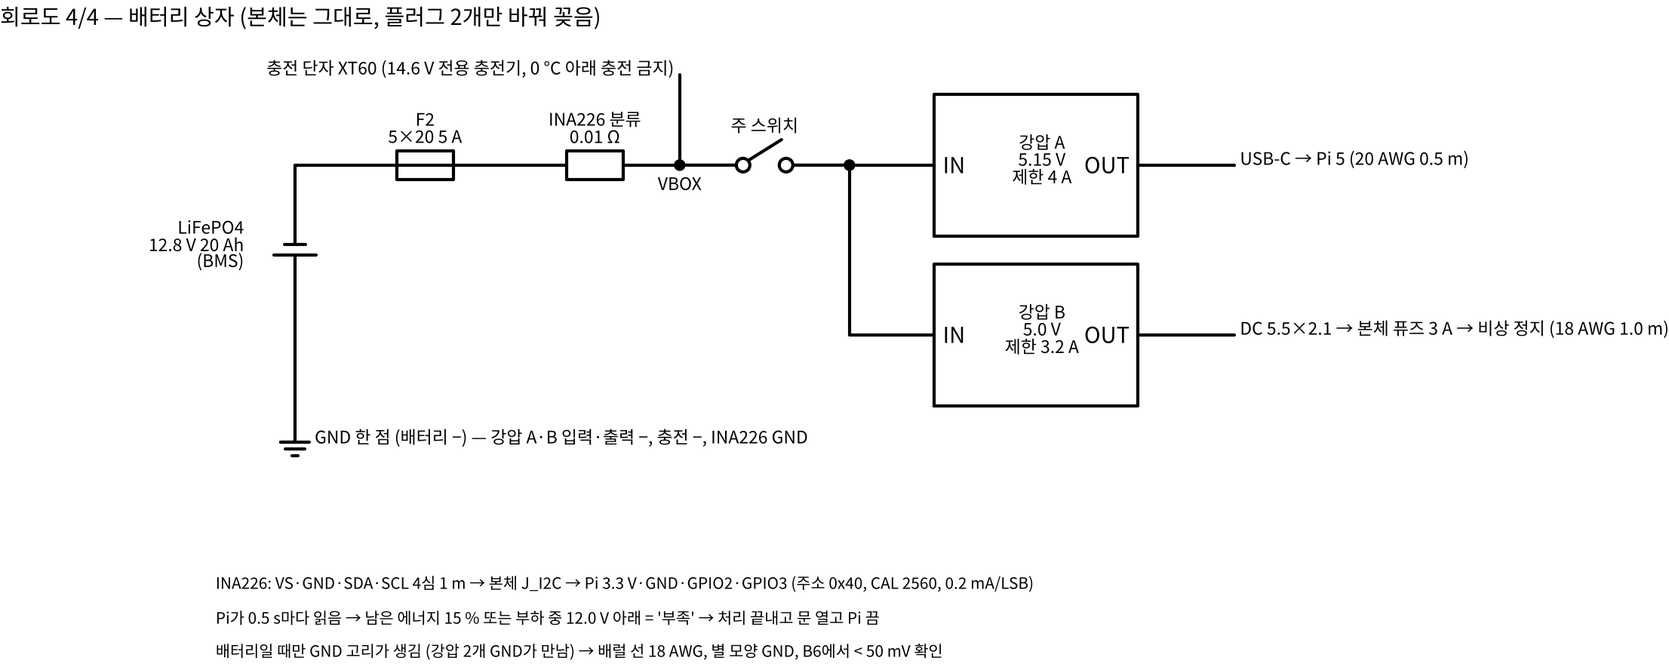
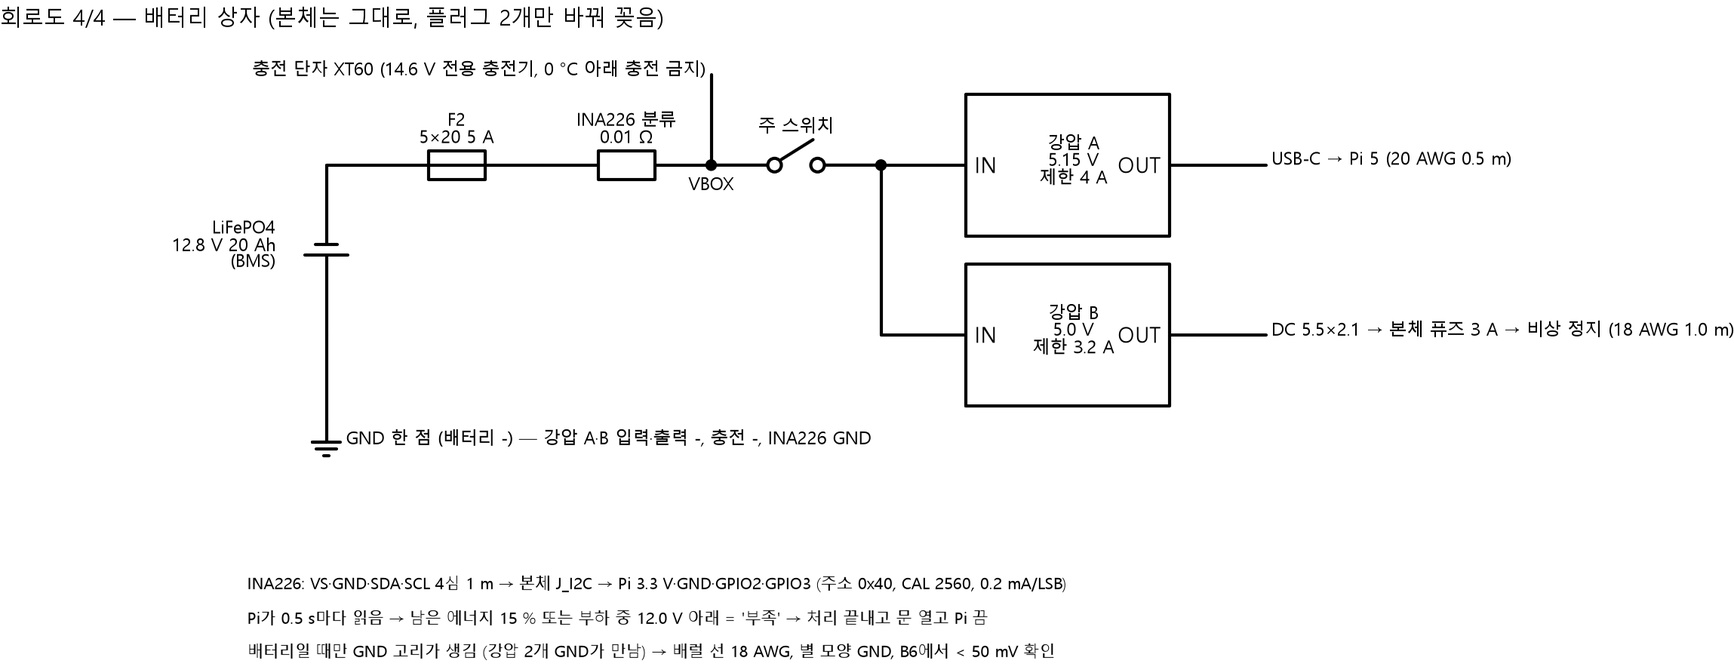
[서현] 인터페이스 정의서 v0.2(통신·비전 결과 형식), 비전 결과를 승준 mark_planner에 맞춤, 기다리는 중 해 지면 밤으로(버그), 회로도 4장 다시 그림(D_RP·500 mm), CLAUDE.md 코딩 원칙, AI 로그 CAP-AI-52

diff --git a/전기회로/전기회로_설계_쉬운설명.html b/전기회로/전기회로_설계_쉬운설명.html
@@ -337,7 +337,7 @@ dl dt{font-weight:700;margin-top:.6em} dl dd{margin:0 0 .3em 0}
 <figure><img src="../design/img/circuit/회로도_3_UNO2_문게이트조명.png" alt="회로도 3 UNO2" onerror="this.parentNode.style.display='none'"><figcaption>회로도 3 — 손 2 (문 · 문지기 · 조명)</figcaption></figure>
 <figure><img src="../design/img/circuit/회로도_4_배터리상자.png" alt="회로도 4 배터리 상자" onerror="this.parentNode.style.display='none'"><figcaption>회로도 4 — 배터리 상자 (콘센트가 없는 곳에서)</figcaption></figure>
 
-<p class="mini">※ 회로도 1·4장 그림에는 아직 역극성 다이오드(D_RP)가 안 그려져 있고, 카메라 선이 "300 mm"로 적혀 있어요. 원본(circuit.py)은 고쳤고, 그림은 다음에 다시 그려요 (이 PC에 그림 도구가 없음).</p>
+<p class="mini">※ 11/08에 회로도를 다시 그렸어요. 1장 오른쪽에 역극성 다이오드(D_RP)가 있고, 카메라 선은 500 mm예요.</p>
 
 <!-- ============================================================ -->
 <h2 id="hub">9-1. 허브 기판 — 납땜 지도</h2>

diff --git a/관련코딩저장/pi_link/test_process.py b/관련코딩저장/pi_link/test_process.py
@@ -23,6 +23,7 @@ class FakeVision:
         self.marks_ok = marks_ok
         self.pose_seq = list(pose_seq or ['dorsal'])
         self.calls = []
+        FakeVision.last = self
 
     def look(self, what):
         self.calls.append(what)
@@ -174,11 +175,8 @@ def t_season():
 
 
 def t_dusk():
-    state = {'n': 0}
-
-    def is_day():
-        state['n'] += 1
-        return state['n'] <= 1          # step 시작 때만 낮, 방생 직전엔 해 짐
+    def is_day():                       # 판별(identify) 사진 뒤에 해 짐 → 방생 직전엔 밤
+        return 'identify' not in FakeVision.last.calls
     r, proc, vis, res, cm, cd = run_scene('dusk 재방문인데 방생 직전 해 짐 → 격리',
                                           dict(species='velutina', mw_mm=4.0, marked=True, x=0, y=0), is_day=is_day)
     try:
@@ -200,9 +198,61 @@ def t_pose_retry():
         r.close()
 
 
+def t_format():
+    print('[format] vision_format: VespAI 클래스·신뢰도 → species, 점 → marked, 화소 → mm (CAP-AI-52)')
+    from vision_format import make_obs, px_to_mm
+    check(make_obs(1, 0.95)['species'] == 'velutina' and make_obs(0, 0.9)['species'] == 'crabro', '클래스 1 velutina, 0 crabro')
+    check(make_obs(1, 0.7)['species'] == 'other', '신뢰도 0.7 < 0.8 → other (격리)')
+    check(make_obs(1, 0.9, dots=[dict(x=1, y=1)])['marked'] and not make_obs(1, 0.9)['marked'], '점 있으면 marked')
+    o = make_obs(1, 0.9, mw_mm=4.0, thorax=(1.0, -0.5, 0.5, 5.5, 4.1))
+    check(o['x'] == 1.0 and o['y'] == -0.5 and len(o['unc']) == 3, 'thorax → x, y, unc')
+    check(decide([o], 7)[0] == 'mark', 'make_obs 결과가 decide로 바로 들어감')
+    cam = dict(u0=1000, v0=800, px_per_mm=15.6)
+    x, y = px_to_mm(1000 + 15.6 * 3, 800 - 15.6 * 2, cam)
+    check(abs(x - 3) < 1e-9 and abs(y - 2) < 1e-9, '화소 (+3 mm 오른쪽, 2 mm 위) → (3, 2)')
+
+
+def t_planner():
+    import math
+    th = (1.0, -0.5, math.radians(30), 5.5, 4.1)
+    r, proc, vis, res, cm, cd = run_scene('planner 흉부 타원을 주면 승준 mark_planner가 고른 점에 찍음 (C4)',
+                                          dict(species='velutina', mw_mm=4.0, marked=False, x=th[0], y=th[1],
+                                               thorax=th, unc=(0.4, math.radians(8), 0.1)))
+    try:
+        import mark_planner
+        want = mark_planner.plan(th, (0.4, math.radians(8), 0.1), start=(10.0, -40.0))['route']
+        check(res == ('release', 'worker'), '결과 release (worker)')
+        check(len(want) == 1, '고른 점 1개 (k=1)')
+        mx = 'MOVE X %.3f' % want[0][0]
+        check(mx in cm and 'MOVE Y %.3f' % want[0][1] in cm, '그 점으로 감 %s' % (want[0],))
+        check(cm[cm.index('MOVE Y %.3f' % want[0][1]) + 1:][:2] == ['PEN DOWN', 'PEN UP'], '거기서 찍음')
+    finally:
+        r.close()
+
+
+def t_night_wait():
+    print('[nightwait] 말벌 기다리는 중 해 짐 → step 끝 → 다음 step이 밤 (REL 닫고 IN·CAP 엶) (C5)')
+    r = Rig()
+    try:
+        r.ctl.boot()
+        day = {'v': True}
+        proc = Processor(r.ctl, FakeVision(None), fast_prm(), month=lambda: 7, is_day=lambda: day['v'])
+        threading.Timer(1.5, lambda: day.__setitem__('v', False)).start()
+        t0 = time.time()
+        res = proc.step()                       # 시간 제한 없음 — 고치기 전에는 여기서 안 끝남
+        check(res == 'no_entry' and time.time() - t0 < 10, '기다림이 해 지자 끝남 (%s, %.1f s)' % (res, time.time() - t0))
+        n0 = len(r.d.history)
+        check(proc.step() == 'night', '다음 step → night')
+        cd = [s for _, d, s in list(r.d.history)[n0:] if d == '>>' and s != 'PING']
+        check('DOOR CAP OPEN' in cd and 'DOOR IN OPEN' in cd and 'DOOR REL OPEN' not in cd, '밤: CAP·IN 열림, REL 안 엶')
+    finally:
+        r.close()
+
+
 if __name__ == '__main__':
     t0 = time.time()
-    tests = dict(decide=t_decide, mark=t_mark, queen=t_queen, revisit=t_revisit, season=t_season, dusk=t_dusk, pose=t_pose_retry)
+    tests = dict(decide=t_decide, format=t_format, mark=t_mark, queen=t_queen, revisit=t_revisit, season=t_season,
+                 dusk=t_dusk, pose=t_pose_retry, planner=t_planner, nightwait=t_night_wait)
     for n in (sys.argv[1:] or list(tests)):
         tests[n]()
     print('\n== test_process: PASS %d, FAIL %d (%.0f s)' % (PASS[0], FAIL[0], time.time() - t0))

diff --git a/관련코딩저장/pi_link/process.py b/관련코딩저장/pi_link/process.py
@@ -21,11 +21,29 @@ trap_sim.py (PiFSM wait_entry·process·press_mark·feed·release·isolate·leav
       (trap_sim은 카메라 흉내 안에서 했음 → 비전은 숫자만 주고 판단은 한 곳에서)
   C2. 흉부 좌표는 '자세 확인' 사진(PRESS 뒤)의 x·y를 쓴다 (trap_sim은 고정 55, 0) — 눌린 뒤 자리가 정확함
   C3. 비전 좌표 = 펌웨어 좌표 (원점 격자 가운데, 인터페이스 정의서 좌표계). 범위 밖이면 마킹 안 하고 급이·방생
+  C4. (CAP-AI-52) 비전이 흉부 타원 thorax(x, y, θ, L, w)·unc를 주면 승준 mark_planner.plan()으로 찍을 점을 고른다
+      (격자 구멍 안 + 흉부 안전영역 확률 ≥ 0.5). 고를 점이 없으면 자세 다시 잡기. thorax가 없으면 C2대로 x, y 한 점.
+      결과 형식은 vision_format.py
+  C5. (CAP-AI-52) 낮밤은 서현 결정: 밤에는 처리하지 않고 전부 포획통 (daynight.py와 같은 순서). 기다리는 중에 해가 지면
+      wait_entry가 0으로 돌아와 다음 step이 night_mode로 간다
 """
+import os
+import sys
 import time
 from dataclasses import dataclass
 
 from controller import TrapFault
+
+sys.path.insert(0, os.path.join(os.path.dirname(os.path.abspath(__file__)), '..', '..', 'vision', 'scripts'))
+
+
+def plan_stamps(h, start):
+    """C4: 승준 mark_planner로 찍을 점들. thorax 없으면 [(x, y)], 확률 낮으면 []."""
+    if 'thorax' not in h:
+        return [(h['x'], h['y'])]
+    import mark_planner                                  # numpy 필요 — thorax를 줄 때만 부름
+    r = mark_planner.plan(h['thorax'], h['unc'], start=start)
+    return [tuple(p) for p in r['route']]
 
 GAP = {'IN': ('G2', 'G2b'), 'CAP': ('G3', 'G3b'), 'REL': ('G5', 'G5b')}
 PAIR = {g: (d, i) for d, pr in GAP.items() for i, g in enumerate(pr)}
@@ -202,6 +220,8 @@ class Processor:
                     break
             if timeout_s is not None and time.monotonic() - t0 > timeout_s:
                 return 0
+            if not self.is_day():              # C5: 기다리다 해 짐 → 다음 step이 밤으로
+                return 0
         obs = []
         for _ in range(p.entry_looks):        # 구석에 있으면 못 볼 수 있음
             obs = self.look('entry')
@@ -265,12 +285,19 @@ class Processor:
                 c.move('F', max(0.0, F_now - p.F_retract))
                 c.idle(2.0)
                 continue
+            route = plan_stamps(h, (c.cfg.park['X'], c.cfg.park['Y']))
+            if not route:                                  # C4: 안전하게 찍을 점 없음 → 자세 다시
+                self.note('pose_retry', attempt=attempt, pose='no_safe_point')
+                c.move('F', max(0.0, F_now - p.F_retract))
+                c.idle(2.0)
+                continue
             for k in range(p.mark_retry_max + 1):
-                c.move_xy(h['x'], h['y'])                  # C2
-                for _ in range(p.stamps):
-                    c.pen(False)
-                    c.idle(p.dwell_s)
-                    c.pen(True)
+                for x, y in route:
+                    c.move_xy(x, y)                        # C2 / C4
+                    for _ in range(p.stamps):
+                        c.pen(False)
+                        c.idle(p.dwell_s)
+                        c.pen(True)
                 c.move_xy(c.cfg.park['X'], c.cfg.park['Y'])
                 v = self.look('verify')
                 if v and v[0].get('marked'):

diff --git a/design/circuit/circuit.py b/design/circuit/circuit.py
@@ -1,4 +1,4 @@
-# -*- coding: utf-8 -*-
+# -*- coding: utf-8 -*-
 """회로 설계 (서현, 2026-11-06, CAP-AI-23) — D5e + 11/02 결정 (빛 게이트 9쌍, 콘센트 + 배터리 상자)
 
 한 곳(NETS)에 모든 연결을 적고, 여기서
@@ -200,10 +200,11 @@ def sheets():
     import matplotlib
     matplotlib.use("Agg")
     import matplotlib.pyplot as plt
-    plt.rcParams.update({"font.family": "Noto Sans CJK JP"})
+    FONT = "Noto Sans CJK JP" if any(f.name == "Noto Sans CJK JP" for f in matplotlib.font_manager.fontManager.ttflist) else "Malgun Gothic"  # Windows는 맑은 고딕
+    plt.rcParams.update({"font.family": FONT})
     import schemdraw
     import schemdraw.elements as elm
-    schemdraw.config(font="Noto Sans CJK JP", fontsize=11)
+    schemdraw.config(font=FONT, fontsize=11)
 
     def P(name, side, anchor=None):
         return elm.IcPin(name=name, side=side, anchorname=anchor or re.sub(r"[^0-9A-Za-z]", "_", name.split()[0]))
@@ -211,7 +212,7 @@ def sheets():
     # --- 1장: 전원 ---
     with schemdraw.Drawing(file=os.path.join(IMG, "회로도_1_전원.png"), show=False, dpi=150) as d:
         d += elm.Label().label("회로도 1/3 — 전원 (콘센트 기본, 같은 플러그로 배터리 상자)", fontsize=14).at((0, 4.2))
-        jb = elm.Ic(pins=[P("−", "right", "pin2"), P("+", "right", "pin1")], edgepadW=1.2, label="DC 잭\n5 V 3 A\n(또는 배터리\n상자 5 V 3 A)").at((0, 0))
+        jb = elm.Ic(pins=[P("-", "right", "pin2"), P("+", "right", "pin1")], edgepadW=1.2, label="DC 잭\n5 V 3 A\n(또는 배터리\n상자 5 V 3 A)").at((0, 0))
         d += jb
         d += elm.Line().right(0.8).at(jb.pin1)
         d += (f := elm.Fuse().right().label("F1\n5×20 3 A", loc="top"))
@@ -226,7 +227,12 @@ def sheets():
         d += elm.Wire("-|").at(jb.pin2).to((g1.center[0] - 2.8, g1.center[1]))
         d += elm.Line().tox(g1.center)
         d += elm.Ground().at(g1.center)
-        d += elm.Resistor().right(2.5).at(tb.center).label("R_RS 10 kΩ", loc="bottom")
+        d += elm.Line().right(3.0).at(tb.center)
+        d += (n3 := elm.Dot())
+        d += elm.Diode().up(2).at((n3.center[0], n3.center[1] - 2))
+        d += elm.Label().label("D_RP SB540\n(거꾸로 걸침, 평소 0 A)", fontsize=10, halign="left").at((n3.center[0] + 0.4, n3.center[1] - 1.0))
+        d += elm.Line().at((n3.center[0], n3.center[1] - 2)).tox(tb.center)
+        d += elm.Resistor().right(2.5).at(n3.center).label("R_RS 10 kΩ", loc="top")
         d += elm.Label().label("→ UNO 2 D2 (레일 감지)", loc="right")
         d += elm.Label().label("GND 한 점 (와고 GND 묶음) ← UNO 1 GND, UNO 2 GND, 서보·게이트·ULN2003 GND", fontsize=10, halign="left").at((-1, -3.8))
         d += elm.Label().label("+5V_B → ULN2003 ×3, SG90, MG90S ×3, 게이트 수신·송신 ×9, 풀업 10 kΩ ×9, 조명 ×2", fontsize=10, halign="left").at((-1, -4.4))

diff --git a/관련코딩저장/pi_link/vision_format.py b/관련코딩저장/pi_link/vision_format.py
@@ -1,0 +1,37 @@
+# -*- coding: utf-8 -*-
+"""vision_format.py — 승준 비전 출력 → process.py가 읽는 한 마리 dict (서현 CAP-AI-52, 2026-11-08)
+
+process.py의 vision.look(what)은 마리마다 아래 dict 하나씩, 리스트로 돌려준다 (인터페이스 정의서 '비전 → 제어 결과' 줄):
+  species  'velutina' | 'crabro' | 'other'   VespAI 클래스 1 / 0, 신뢰도 < CONF_MIN 이면 'other' (→ 격리)
+  conf     0~1
+  mw_mm    중흉배판 폭 mm 또는 None (못 잼 → 계절 규칙)
+  marked   흉부 ROI 안에 노랑 점이 있나 (dot_detect.find_dots 결과가 1개 이상)
+  pose     'dorsal' | 'ventral' | 'side' | None,  p = 흉부 찾기 확률
+  x, y     흉부 가운데 mm (원점 격자 가운데, +x 방생 문 쪽, +y 먹이통 쪽)
+  thorax   (x, y, θ rad, L, w) mm — mark_planner.plan()의 est.   unc = (σ_xy, σ_θ, σ_size)
+           thorax가 있으면 process.py가 mark_planner로 찍을 점을 고르고, 없으면 x, y 한 점에 찍는다.
+"""
+import math
+
+CLASS = {1: 'velutina', 0: 'crabro'}     # VespAI monitor_run.py (run_vespai_examples.py CLASS_VELUTINA, CLASS_CRABRO)
+CONF_MIN = 0.8                           # J1 실행 기준값
+
+
+def species_of(cls_id, conf):
+    return CLASS.get(cls_id, 'other') if conf >= CONF_MIN else 'other'
+
+
+def px_to_mm(u, v, cam):
+    """사진 화소 (u 오른쪽, v 아래) → 좌표 mm. cam = dict(u0, v0 격자 가운데 화소, px_per_mm, rot_deg 사진이 돈 각도).
+    카메라 방향(rot_deg)은 장착 뒤 격자 사진으로 정한다 — 미검증."""
+    dx, dy = (u - cam['u0']) / cam['px_per_mm'], -(v - cam['v0']) / cam['px_per_mm']
+    a = math.radians(cam.get('rot_deg', 0.0))
+    return dx * math.cos(a) - dy * math.sin(a), dx * math.sin(a) + dy * math.cos(a)
+
+
+def make_obs(cls_id, conf, mw_mm=None, dots=(), pose=None, p=0.0, thorax=None, unc=(0.4, math.radians(8), 0.1)):
+    """한 마리 결과를 만든다. thorax는 이미 mm 좌표 (x, y, θ, L, w)."""
+    o = dict(species=species_of(cls_id, conf), conf=conf, mw_mm=mw_mm, marked=len(dots) > 0, pose=pose, p=p)
+    if thorax is not None:
+        o.update(x=thorax[0], y=thorax[1], thorax=tuple(thorax), unc=tuple(unc))
+    return o

diff --git a/design/circuit/battery_box.py b/design/circuit/battery_box.py
@@ -202,10 +202,11 @@ def sheet():
     import matplotlib
     matplotlib.use("Agg")
     import matplotlib.pyplot as plt
-    plt.rcParams.update({"font.family": "Noto Sans CJK JP"})
+    FONT = "Noto Sans CJK JP" if any(f.name == "Noto Sans CJK JP" for f in matplotlib.font_manager.fontManager.ttflist) else "Malgun Gothic"  # Windows는 맑은 고딕
+    plt.rcParams.update({"font.family": FONT})
     import schemdraw
     import schemdraw.elements as elm
-    schemdraw.config(font="Noto Sans CJK JP", fontsize=11)
+    schemdraw.config(font=FONT, fontsize=11)
     with schemdraw.Drawing(file=os.path.join(IMG, "회로도_4_배터리상자.png"), show=False, dpi=150) as d:
         d += elm.Label().label("회로도 4/4 — 배터리 상자 (본체는 그대로, 플러그 2개만 바꿔 꽂음)", fontsize=14).at((0, 4.0))
         d += (bat := elm.BatteryCell().up(3).at((0, -1.5)))
@@ -230,7 +231,7 @@ def sheet():
         d += elm.Line().up(1.6).at(nv.center)
         d += elm.Label().label("충전 단자 XT60 (14.6 V 전용 충전기, 0 °C 아래 충전 금지)", loc="top")
         d += elm.Line().down(1.5).at(bat.start)
-        d += (g := elm.Ground().label("GND 한 점 (배터리 −) — 강압 A·B 입력·출력 −, 충전 −, INA226 GND", loc="right"))
+        d += (g := elm.Ground().label("GND 한 점 (배터리 -) — 강압 A·B 입력·출력 -, 충전 -, INA226 GND", loc="right"))
         d += elm.Label().label("INA226: VS·GND·SDA·SCL 4심 1 m → 본체 J_I2C → Pi 3.3 V·GND·GPIO2·GPIO3 (주소 0x40, CAL 2560, 0.2 mA/LSB)", fontsize=10, halign="left").at((-1.5, -5.8))
         d += elm.Label().label("Pi가 0.5 s마다 읽음 → 남은 에너지 15 % 또는 부하 중 12.0 V 아래 = '부족' → 처리 끝내고 문 열고 Pi 끔", fontsize=10, halign="left").at((-1.5, -6.4))
         d += elm.Label().label("배터리일 때만 GND 고리가 생김 (강압 2개 GND가 만남) → 배럴 선 18 AWG, 별 모양 GND, B6에서 < 50 mV 확인", fontsize=10, halign="left").at((-1.5, -7.0))

diff --git a/design/인터페이스_정의서.md b/design/인터페이스_정의서.md
@@ -24,8 +24,9 @@
 | 전장품 크기 (Pi 5 + HAT + 아두이노) | Pi 5+HAT 85×56×35, UNO 68.6×53.4×15 — 받침판(101)에 자리 있음 | mm | 승준 | D5 3차 | 높이 35는 잠정 (실물로 확인) |
 | 전원 전압 · 소비 전력 | **Pi 레일:** 27 W 공식 USB-C (보유), UNO 2개는 Pi USB로 받음. **구동 레일 +5V_B:** 5 V 3 A 어댑터 → 퓨즈 5×20 3 A → 비상 정지(NC) → 와고 221-415 (+5V 2개, GND 3개). 규칙(서보 한 번에 하나)을 지키면 최대 **1.8 A**, 대기 0.34 A. UNO 5V 핀은 +5V_B와 잇지 않음, GND는 와고 한 점. 대기 7.4 W, 하루 약 80 Wh (9시간) | V · W | 서현 ↔ 승준 | 전기계통 (CAP-AI-22), 회로설계, elec_budget.py | 잠정 (실측은 브레드보드 5단계) |
 | 배터리 상자 (선택) | LiFePO4 12.8 V 20 Ah → 퓨즈 5 A → **INA226 (0.01 Ω, R010)** → 강압 5.15 V (USB-C → Pi) / 5.0 V (배럴 → 본체). 본체는 그대로, 플러그 2개만 바꿔 꽂음. INA226 → Pi GPIO2/3 (주소 0x40, CAL 2560), 남은 15 % 또는 부하 중 12.0 V 아래 = 부족 → 처리 끝내고 문 열고 Pi 끔. 2.88일 | — | 서현 → 승준 | 배터리상자 회로 (CAP-AI-35) | 잠정 — 본체에 J_I2C 4핀 자리 필요 (D5g), Pi 코드 적산은 승준 |
-| 운용 시간 | **낮 = 해 뜨고 30분 뒤 ~ 해 지기 30분 전** (NOAA 식 + Pi RTC, 공주 36.46 N 127.12 E) 동안만 처리. **밤: 처리 안 함** — 방생 문 닫고 입구·격리 문 열고 조명 끔 → 전부 포획통. 처리 중 해가 지면 격리. Pi 5 RTC 배터리 필요 | h | 승준 → 서현 | 승준 SJ-46 `control/pi/daynight.py`, trap_sim S15·S16 | 정함 (11/06 승준) |
-| Pi ↔ 아두이노 통신 | USB 시리얼 115200, 한 줄 텍스트 명령 (`MOVE`·`PRESS`·`DOOR`·`PEN`·`STATUS` 등) — 목록은 `control/2026-10-28_J6_구동부_펌웨어와_시험절차.md` 3장. **아두이노 UNO 2개** (SJ-24 제안 채택): UNO 1 = 스테핑 3(D2~D13)·펜 서보(A0)·HX711(A1·A2)·원점 3(A3~A5) 18/18, UNO 2 = 레일 감지 D2·조명 Q1 D3/Q2 D5·송신 Q4 D4·문 서보 D9~D11·빛 게이트 9쌍 (위 줄), D6·D13 예비 — 핀 표 `design/2026-11-06_회로설계_서현.md` | — | 승준 (핀: 서현) | 펌웨어 `control/firmware/trap_controller/`, 시뮬레이션 확인 (CAP-AI-SJ-19), 회로설계 | 2차 — 펌웨어 핀 표는 승준 확인 대기 (Issue #7) (실물 `미검증`) |
+| 운용 시간 | **낮 = 해 뜨고 30분 뒤 ~ 해 지기 30분 전** (NOAA 식 + Pi RTC, 공주 36.46 N 127.12 E) 동안만 처리. **밤: 처리 안 함** — 방생 문 닫고 입구·격리 문 열고 조명 끔 → 전부 포획통. 처리 중 해가 지면 격리. Pi 5 RTC 배터리 필요 | h | 서현 (구현 승준) | 승준 SJ-46 `control/pi/daynight.py`, trap_sim S15·S16, `관련코딩저장/pi_link/process.py` C5 (말벌 기다리는 중 해 지면 밤으로) | 정함 (서현 생각, 11/06 승준이 구현) |
+| Pi ↔ 아두이노 통신 | **v0.2** — USB 시리얼 115200, 한 줄 = 명령 하나. 응답 4가지: `OK …`(받음) / `ERR <이유>` / `DONE …`(끝남) / `EVT …`(사건). 켜지면 `EVT READY trap_motion v0.2` / `EVT READY trap_doors v0.2` → **Pi는 이 이름으로 포트를 가린다** (USB 순서 무관). **UNO 1 trap_motion**: `PING` `STATUS` `HOME F/X/Y` `MOVE F/X/Y <mm>` `STOP` `ZERO` `SPEED` `LIMIT` `HOLD` `PRESS <g>` `PEN UP/DOWN` `SERVO PEN` `SETDOOR PEN` `LOAD/TARE/CAL` `WATCHDOG <s>`. **UNO 2 trap_doors**: `PING` `STATUS` `SELFTEST` `GATES` `DOOR IN/CAP/REL OPEN/CLOSE` `SERVO` `SETDOOR` `LIGHT TOP/BOT <0~255>` `EMIT 0/1` `RAIL` `WATCHDOG <s>`, 사건 `EVT GATE <이름> BLOCK/CLEAR`·`EVT RAIL 0/1`·`EVT DOOR <이름> REOPEN/BLOCKED`. **안전 규칙(펌웨어가 거부)**: X·Y는 펜 UP일 때만, 펜 DOWN이고 마킹실 위(Y > −20.5)면 F 올리기 거부(R1′, 캡 컵이면 허용), PRESS는 펜 UP만 → `ERR PEN_DOWN` / 원점 전 `ERR NOT_HOMED` / 다른 문이 움직이는 중 `ERR BUSY` / 문 닫기는 빔이 0.2 s 비어야, 닫다가 끊기면 다시 엶, 3번이면 `BLOCKED` / 레일 꺼지면 `ERR RAIL` / 켤 때 서보 안 붙임, 하나씩 0.3 s / 명령 5 s 없으면 정지(WATCHDOG). 전체 목록·자세한 형식: 각 .ino 머리말. 핀: UNO 1 = 스테핑 3(D2~D13)·펜 서보(A0)·HX711(A1·A2)·원점 3(A3~A5) 18/18, UNO 2 = 레일 감지 D2·조명 Q1 D3/Q2 D5·송신 Q4 D4·통로 게이트 D7·D8·D12·문 서보 D9~D11·문 빔 A0~A5, D6·D13 예비 — 핀 표 `design/2026-11-06_회로설계_서현.md` | — | 서현 (펌웨어 v0.2, 11/08부터 VS Code) | `design/circuit/firmware/trap_motion`·`trap_doors` (CAP-AI-40~48), 시뮬 84/84·77/77, Pi 쪽 `관련코딩저장/pi_link` 36/36·처리 순서 | **v0.2** — 컴파일·시뮬 통과, 실물 `미검증` (승준 v0.1 `control/firmware/trap_controller/`는 그대로 둠) |
+| 비전 → 제어 결과 | 카메라 한 번 볼 때 마리마다 dict 하나: `species` (velutina / crabro / other — VespAI 클래스 1/0, 신뢰도 < 0.8이면 other), `conf`, `mw_mm` (중흉배판 폭, 못 재면 None), `marked` (흉부 ROI 안 노랑 점 ≥ 1), `pose` (dorsal / ventral / side), `p` (흉부 확률), `x, y` (흉부 가운데 mm, 위 좌표계), `thorax` = (x, y, θ rad, L, w) mm + `unc` = (σ_xy, σ_θ, σ_size) — **승준 `mark_planner.plan()`의 est·unc 그대로**. Pi가 thorax로 찍을 점을 고르고(확률 ≥ 0.5, 없으면 자세 다시), 여왕·종 판단은 Pi `decide()` 한 곳 | — | 승준 → 서현 | `관련코딩저장/pi_link/vision_format.py` (make_obs·px_to_mm), `vision/scripts/mark_planner.py`·`dot_detect.py` | 잠정 — 화소 → mm 변환의 카메라 방향은 장착 뒤 격자 사진으로 (승준 확인) |
 
 ## 동작 순서 (상태 머신) — 2차 (D5 4차)
 `design/2026-10-28_D2_기능시퀀스와_기능계통도.md` 1장 + D5 4차 부품 기준.
@@ -52,3 +53,4 @@
 | 2026-10-28 | 승준 (Claude, CAP-AI-SJ-24) | 값은 안 바꿈 — **제안만 추가**: 아두이노 2개로 나눔(UNO 1 스테핑 3·펜 서보·HX711·원점 3 / UNO 2 문 서보 3·빛 게이트·조명), Pi→UNO `PATH`·`HOME` 명령, 격자 틈 3.5 mm·가는 팁·위 어둡게/아래 밝게 조명·X·Y(·바닥) NEMA17 검토 | 신뢰성 몬테카를로: 지금 격자(3.0/4.4)+샤피 불렛은 8회 재시도해도 약 35 % → 제안을 같이 바꾸면 예측 95 % 넘음. 근거 `control/2026-10-28_제어부_구성_신뢰성_AI마킹.md` (서현 결정 대기) |
 | 2026-11-02 | 서현 (Claude, CAP-AI-21) | 4차 값: 구동기 4(혼 끝·핀 안내·PTFE, 토크 12.4 N·mm, 스프링 204 없음, 내리기 2단계 ≤ 60 °/s), 구동기 5~7(SG90 회전 → MG90S 미닫이, 문틈 확인 후 닫기), 상태 머신 2·6단계 | D5e 이음부 수정, S4 2차(승준 SJ-29), 동역학 M7·M8 |
 | 2026-11-06 | 서현 (Claude, CAP-AI-36) | 5차 값: 하중 센서 버튼형 → 막대형 500 g~1 kg, 원점 스위치 Pi GPIO → UNO 1 A3~A5, 진입 감지 → **빛 게이트 9쌍**(통로 2167 → D7·D8·D12, 문 빔 낱개 → A0~A5 아날로그), 전원 줄(퓨즈 3 A·비상 정지·와고·최대 1.8 A), **배터리 상자** 줄 추가(INA226 R010), **운용 시간** = 승준 낮·밤 규칙, **여왕벌 판정** 줄 추가, Pi ↔ 아두이노를 UNO 2개 핀으로 | 11/06 회로 설계(CAP-AI-23~35)·승준 SJ-43~47이 이 문서에 아직 안 들어가 있었음. 상태 머신은 펌웨어 쪽이라 그대로 (승준 확인) |
+| 2026-11-08 | 서현 (Claude, CAP-AI-52) | Pi ↔ 아두이노 통신 → **펌웨어 v0.2** (명령·응답 4가지·READY 이름·안전 규칙·R1′), **비전 → 제어 결과** 줄 새로 (승준 mark_planner est·unc 형식에 맞춤), 운용 시간 결정자 = 서현 | 11/08 펌웨어·제어를 VS Code에서 서현이 맡음 (분업계획). 밤에 처리 안 하는 것은 서현 생각 (서현 11/08). 승준 v0.1·control/ 파일은 안 고침 |

diff --git a/ai-log/AI_명령사항_로그.md b/ai-log/AI_명령사항_로그.md
@@ -648,3 +648,12 @@
 - 가림: 펜은 쉴 때 캡 컵(Y −40, 마킹실 밖), 격자 열린 면적 36.5 % → 투명 격자 권장, X·Y 몸체가 시선에 오는지는 CAD에서 확인 (미검증)
 - HTML 8-1장 표에 '몇 대?'·'그 1대가 하는 일'·'가리는 것은?' 세 줄 추가
 - 남은 것: 2대째는 J3 실측(200 mm에서 여왕벌 폭 4.4 mm를 가를 수 있나)이 실패할 때만 검토
+## CAP-AI-52 — 2026-11-08 · (VS Code) 인터페이스 정의서 v0.2, 비전 결과 형식 맞춤, 해 짐 버그, 회로도 다시 그림, CLAUDE.md 코딩 원칙
+- 명령: "합치고 설치해. 1. 반영해 2. 밤에 작동 안 하는 거 내 생각이야. 3. 맞춰 4. 그려"
+- CLAUDE.md에 andrej_CLAUDE.md 4원칙(코딩 전 생각·단순하게·필요한 곳만·목표로)을 한국어로 합침. schemdraw 0.23·matplotlib 3.11.2 설치
+- 1. 인터페이스 정의서 'Pi ↔ 아두이노 통신' → 펌웨어 v0.2 (응답 4가지, READY 이름으로 포트 가리기, 명령 목록, 안전 규칙 R1′·BUSY·문 닫기·RAIL·WATCHDOG), 변경 이력 추가. 승준 v0.1·control/은 안 고침
+- 2. 밤 처리 안 함 = 서현 생각 → Issue 안 엶. 정의서 운용 시간 결정자를 '서현 (구현 승준)'으로. 우리 controller.night_mode는 이미 daynight.py와 같은 순서 [확실]. **버그 하나 찾아 고침 (C5)**: 말벌을 기다리는 중(wait_entry, 시간 제한 없음) 해가 지면 밤으로 안 넘어갔음 → 기다리는 중 is_day() 확인, 0 돌려줌 → 다음 step이 night_mode. 시험 nightwait
+- 3. 비전 결과 형식을 승준 코드에 맞춤: `vision_format.py` (VespAI 클래스 1 velutina/0 crabro, 신뢰도 < 0.8 → other, find_dots → marked, 화소 → mm), process.py C4 — thorax (x, y, θ, L, w) + unc를 주면 **승준 mark_planner.plan()**이 고른 점에 찍음, 고를 점 없으면 자세 다시. thorax 없으면 예전처럼 x, y 한 점. 정의서에 '비전 → 제어 결과' 줄 새로
+- 4. 회로도 PNG 4장 다시 그림: 1장에 D_RP SB540(거꾸로 걸침)·카메라 FFC 500 mm. Noto 글꼴 없는 PC는 맑은 고딕으로 (circuit.py·battery_box.py), '−' 기호가 깨져 '-'로. 그림 1·3·4 눈으로 확인
+- 검증: test_process 52/52 (새 format 6·planner 4·nightwait 3, dusk 시험의 가짜 해 짐을 '판별 사진 뒤'로 고침 — C5 때문에 기다리는 중에도 is_day를 부름), test_pi_link 36/36, circuit.py 검사 통과
+- 미검증·남은 것: 카메라 방향(px_to_mm rot_deg)은 장착 뒤 격자 사진으로, 실제 비전이 thorax·unc를 내는지 승준 확인, mark_planner 기본값(Grid 3.0/4.4, 팁 2.0) = 지금 격자 가정

diff --git a/전기회로/README.md b/전기회로/README.md
@@ -43,7 +43,7 @@
 2. **역극성 보호 D_RP** (AI 판단): 쇼트키 **SB540** (5 A)를 레일에 **거꾸로 걸침** (줄 K → +5V_B, A → GND), 서보 허브 위. 평소 전압 손실 0, 극성이 반대인 어댑터면 퓨즈 3 A가 끊김. 직렬 다이오드는 0.3~0.5 V 떨어져 MG90S(4.8 V~) 사양 밑이라 안 씀. circuit.py 넷·BOM에 넣음 (검사 통과). SB540 사양은 [가능성 높음] — 사기 전에 사양서 확인
 3. **카메라** (원래 정해져 있었으나 문서가 흩어져 있었음): Raspberry Pi AI 카메라 IMX500 (보유), 격자 위 200 mm, **Pi 5 CAM0 (22핀) ↔ 카메라 (15핀) FFC 500 mm** 하나로 신호·전원 (아두이노와 무관). circuit.py·회로설계 문서의 '300 mm'를 500 mm로 고침 (11/07 하네스 확정 CAP-AI-38·구매 E18과 맞춤). 자세히는 HTML 8-1장
 
-남은 것: **회로도 PNG 1·4장 다시 그리기** — D_RP·카메라 500 mm가 그림에 아직 없음 (이 PC Python에 schemdraw·matplotlib가 없어서 원본만 고침. `pip install schemdraw matplotlib` 후 `python design/circuit/circuit.py`)
+회로도 PNG 4장 다시 그림 (CAP-AI-52): 1장에 D_RP·카메라 500 mm 들어감. Windows에서는 맑은 고딕으로 그림 (`python design/circuit/circuit.py`, `battery_box.py`)
 ## 4. 펌웨어(11/08)가 회로에 기대는 것 — 회로를 바꿀 때 같이 보기
 - UNO 2 D2 레일 감지는 **내부 풀업을 쓰지 않는다** (외부 10 kΩ ← +5V_B. 내부 풀업이면 레일이 꺼져도 HIGH).
 - 통로 게이트 D7·D8·D12는 허브의 **외부 10 kΩ 풀업**, 문 빔 A0~A5는 **10 kΩ → GND** (빛 받으면 높음).

diff --git a/CLAUDE.md b/CLAUDE.md
@@ -12,6 +12,12 @@
 - 주장 앞에 [확실] / [가능성 높음] / [추측]. 확실하지 않으면 추측으로 진행하지 말고 묻는다.
 - 중요한 답부터, 서론 없이.
 
+## 코딩 원칙 (andrej_CLAUDE.md를 합침, 서현 11/08 — 작은 일은 판단껏)
+1. **코딩 전에 생각** — 가정을 말한다. 해석이 여러 개면 골라 숨기지 말고 내놓는다. 더 쉬운 길이 있으면 말하고, 헷갈리면 멈추고 묻는다.
+2. **단순하게** — 요청한 것만. 한 번 쓰는 추상화·요청 안 한 설정·일어날 수 없는 경우의 오류 처리 금지. 200줄이 50줄로 되면 다시 쓴다.
+3. **필요한 곳만 고침** — 옆 코드·주석·서식을 '개선'하지 않는다. 기존 스타일을 따른다. 관계없는 죽은 코드는 말만 하고 지우지 않는다. 내 변경으로 안 쓰게 된 것만 지운다. 바뀐 줄마다 요청으로 거슬러 올라갈 수 있어야 한다.
+4. **목표로 일함** — 일을 확인할 수 있는 목표로 바꾼다 ("버그 고침" → 재현 시험을 쓰고 통과시킴). 여러 단계면 `1. [단계] → 확인: [검사]`로 짧게 계획하고, 확인될 때까지 반복한다.
+
 ## 파일 규칙
 - 분업계획에서 사용자 담당이 아닌 파일은 고치지 않는다. 필요하면 Issue를 연다.
 - `design/인터페이스_정의서.md`는 공동 편집 — 바꾸면 변경 이력에 날짜·이름·이유.
